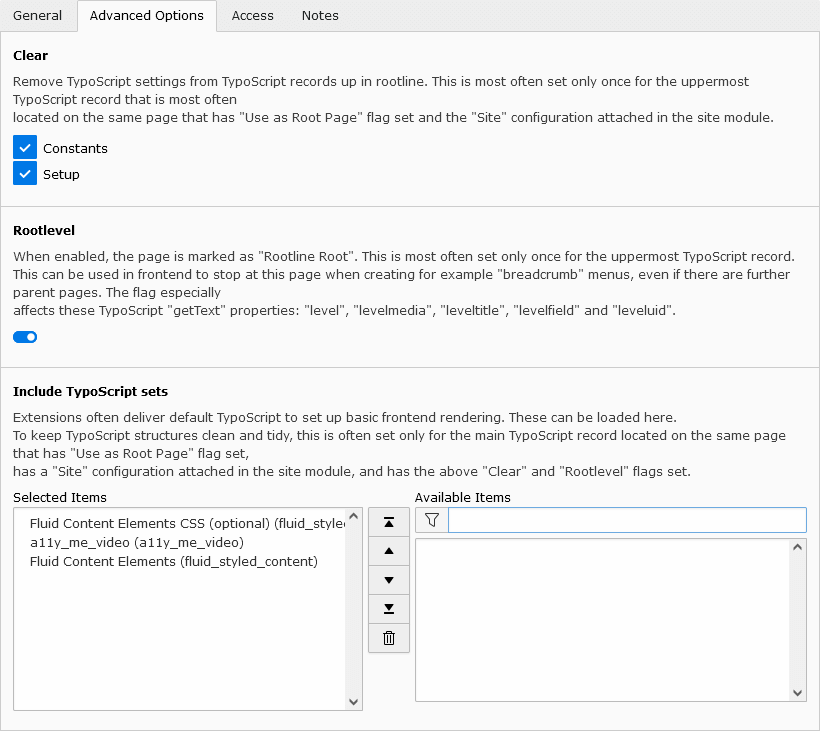
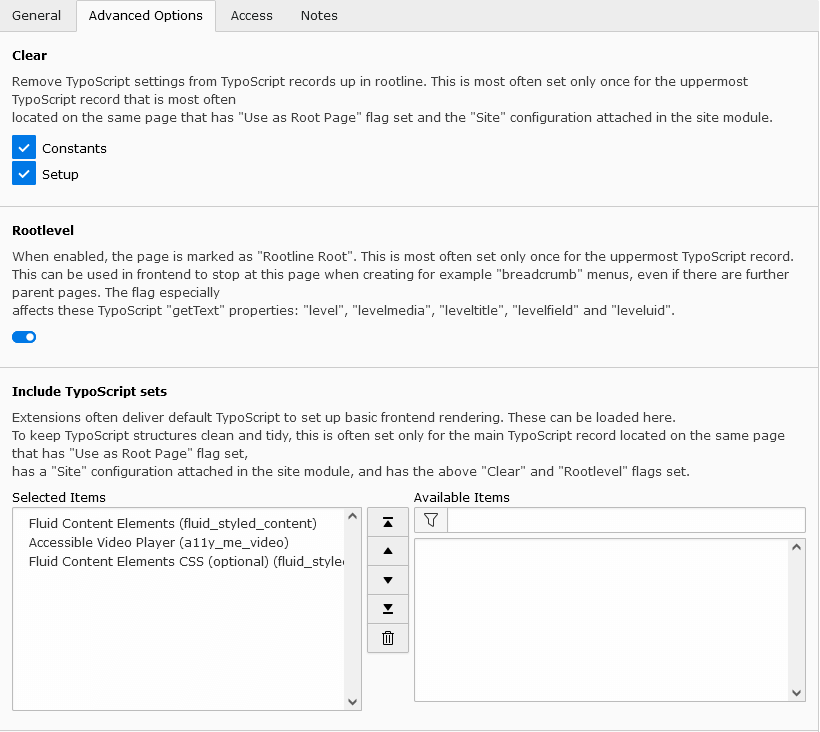
[TASK] Fluid: croped poster img, TCA: remove unused, change documention, change dev set, cleanup

diff --git a/Resources/Private/Partials/VideoPlayerTwo.html b/Resources/Private/Partials/VideoPlayerTwo.html
@@ -1,7 +1,7 @@
 <html xmlns:f="http://typo3.org/ns/TYPO3/CMS/Fluid/ViewHelpers" data-namespace-typo3-fluid="true">
 <div class="a11y-me-videoplayer{f:if(condition: '{data.tx_a11ymevideo_videooptions}==2 || {data.tx_a11ymevideo_videooptions}==3', then: ' active-controls')}">
     <video controls playsinline  width="1180" height="664" preload="metadata" lang="{langCode}"
-        <f:if condition="{data_tx_a11ymevideo_posterimg}">poster="{data_tx_a11ymevideo_posterimg.0.publicUrl}"</f:if>
+        <f:if condition="{data_tx_a11ymevideo_posterimg.0}">poster="{f:uri.image(image:'{data_tx_a11ymevideo_posterimg.0}', maxWidth: '960')}"</f:if>
         <f:if condition="{data.tx_a11ymevideo_signlanguagelink}">
             <f:variable name="signlanguage" value="{f:uri.typolink(parameter:'{data.tx_a11ymevideo_signlanguagelink}')}" />
             <f:if condition="{data.tx_a11ymevideo_signlanguagelink_webm}">

diff --git a/Resources/Private/Partials/VideoPlayer.html b/Resources/Private/Partials/VideoPlayer.html
@@ -1,7 +1,7 @@
 <html xmlns:f="http://typo3.org/ns/TYPO3/CMS/Fluid/ViewHelpers" data-namespace-typo3-fluid="true">
 <div class="a11y-me-videoplayer{f:if(condition: '{data.tx_a11ymevideo_videooptions}==2 || {data.tx_a11ymevideo_videooptions}==3', then: ' active-controls')}">
-    <video controls playsinline  width="1180" height="664" preload="metadata" lang='{langCode}'
-        <f:if condition="{data_tx_a11ymevideo_posterimg}">poster="{data_tx_a11ymevideo_posterimg.0.publicUrl}"</f:if>
+    <video controls playsinline  width="960" height="540" preload="metadata" lang='{langCode}'
+        <f:if condition="{data_tx_a11ymevideo_posterimg.0}">poster="{f:uri.image(image:'{data_tx_a11ymevideo_posterimg.0}', maxWidth: '960')}"</f:if>
         <f:if condition="{data_tx_a11ymevideo_signlanguage}">
             <f:if condition="{data_tx_a11ymevideo_signlanguage_webm}">
                 <f:then>

diff --git a/Configuration/TCA/Overrides/tt_content.php b/Configuration/TCA/Overrides/tt_content.php
@@ -1,5 +1,6 @@
 <?php
 
+use TYPO3\CMS\Core\Resource\File;
 use TYPO3\CMS\Core\Utility\ExtensionManagementUtility;
 
 defined('TYPO3') || die();
@@ -51,6 +52,13 @@ call_user_func(function () {
                 'allowed' => ['mp3'],
                 'maxitems' => '1',
                 'minitems' => '0',
+                'overrideChildTca' => [
+                    'types' => [
+                        File::FILETYPE_AUDIO => [
+                            'showitem' => '--palette--;;filePalette',
+                        ],
+                    ],
+                ],
             ],
             'description' => $llFile . 'tt_content.tx_a11ymevideo_audiodescription_description',
             'exclude' => '1',
@@ -75,6 +83,13 @@ call_user_func(function () {
                 'allowed' => ['vtt'],
                 'maxitems' => '1',
                 'minitems' => '0',
+                'overrideChildTca' => [
+                    'types' => [
+                        File::FILETYPE_TEXT => [
+                            'showitem' => '--palette--;;filePalette',
+                        ],
+                    ],
+                ],
             ],
             'description' => $llFile . 'tt_content.tx_a11ymevideo_captions_description',
             'exclude' => '1',
@@ -141,6 +156,13 @@ call_user_func(function () {
                 'allowed' => ['mp4'],
                 'maxitems' => '1',
                 'minitems' => '1',
+                'overrideChildTca' => [
+                    'types' => [
+                        File::FILETYPE_VIDEO => [
+                            'showitem' => '--palette--;;filePalette',
+                        ],
+                    ],
+                ],
             ],
             'description' => $llFile . 'tt_content.tx_a11ymevideo_mp4_description',
             'exclude' => '1',
@@ -163,9 +185,16 @@ call_user_func(function () {
         'tx_a11ymevideo_posterimg' => [
             'config' => [
                 'type' => 'file',
-                'allowed' => ['jpg', 'jpeg', 'png', 'gif'],
+                'allowed' => 'common-image-types',
                 'maxitems' => '1',
                 'minitems' => '0',
+                'overrideChildTca' => [
+                    'types' => [
+                        File::FILETYPE_IMAGE => [
+                            'showitem' => '--palette--;;filePalette,crop',
+                        ],
+                    ],
+                ],
             ],
             'description' => $llFile . 'tt_content.tx_a11ymevideo_posterimg_description',
             'exclude' => '1',
@@ -177,6 +206,13 @@ call_user_func(function () {
                 'allowed' => ['mp4'],
                 'maxitems' => '1',
                 'minitems' => '0',
+                'overrideChildTca' => [
+                    'types' => [
+                        File::FILETYPE_VIDEO => [
+                            'showitem' => '--palette--;;filePalette',
+                        ],
+                    ],
+                ],
             ],
             'description' => $llFile . 'tt_content.tx_a11ymevideo_signlanguage_description',
             'exclude' => '1',
@@ -188,6 +224,13 @@ call_user_func(function () {
                 'allowed' => ['webm'],
                 'maxitems' => '1',
                 'minitems' => '0',
+                'overrideChildTca' => [
+                    'types' => [
+                        File::FILETYPE_VIDEO => [
+                            'showitem' => '--palette--;;filePalette',
+                        ],
+                    ],
+                ],
             ],
             'description' => $llFile . 'tt_content.tx_a11ymevideo_signlanguage_webm_description',
             'exclude' => '1',
@@ -298,6 +341,13 @@ call_user_func(function () {
                 'allowed' => ['webm'],
                 'maxitems' => '1',
                 'minitems' => '0',
+                'overrideChildTca' => [
+                    'types' => [
+                        File::FILETYPE_VIDEO => [
+                            'showitem' => '--palette--;;filePalette',
+                        ],
+                    ],
+                ],
             ],
             'description' => $llFile . 'tt_content.tx_a11ymevideo_webm_description',
             'exclude' => '1',
@@ -425,6 +475,6 @@ call_user_func(function () {
     ExtensionManagementUtility::addStaticFile(
         'a11y_me_video',
         'Configuration/TypoScript/',
-        'a11y_me_video'
+        'Accessible Video Player'
     );
 });

diff --git a/README.md b/README.md
@@ -81,7 +81,7 @@ The extension requires some TypoScript code, which must be integrated.
 1. Switch to the root page of your site.
 2. Switch to the **TypoScript module** and select the **TypoScript record**.
 3. Press the **Edit the whole template record** button and switch to the tab **Advanced Options**.
-4. Go to **Include TypoScript sets**. Add **Fluid Content Elements** and **a11y_me_video** to **Selected Items**.
+4. Go to **Include TypoScript sets**. Add **Fluid Content Elements** and **Accessible Video Player** to **Selected Items**.
 5. For some css classes to work, you also need to select **Fluid Content Elements CSS (optional)**
 
 ![screen shot of including static TypeScript!](Documentation/Images/TemplateInclude.png)

diff --git a/Documentation/AdministratorManual/Installation/Index.rst b/Documentation/AdministratorManual/Installation/Index.rst
@@ -51,7 +51,7 @@ The extension requires some TypoScript code, which must be integrated.
 
 #. Press the **Edit the whole template record** button and switch to the tab **Advanced Options**.
 
-#. Go to **Include TypoScript sets**. Add **Fluid Content Elements** and **a11y_me_video** to **Selected Items**.
+#. Go to **Include TypoScript sets**. Add **Fluid Content Elements** and **Accessible Video Player** to **Selected Items**.
 
 #. For some css classes to work, you also need to select **Fluid Content Elements CSS (optional)**
 
